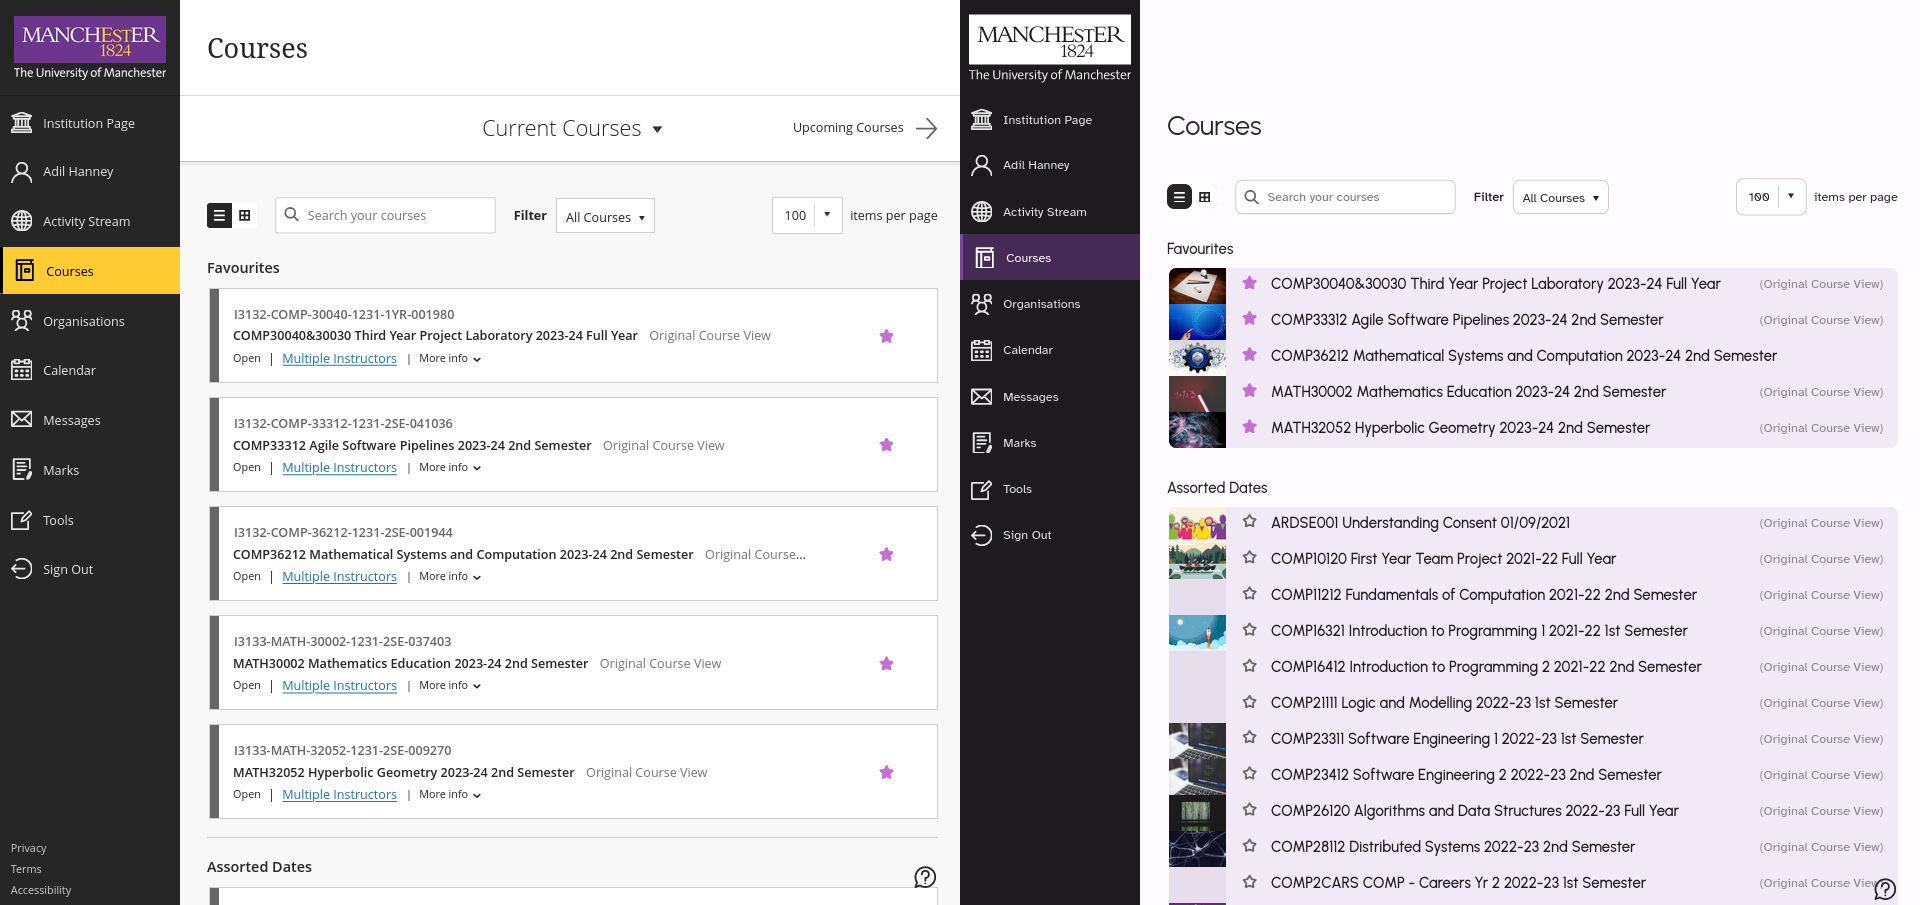
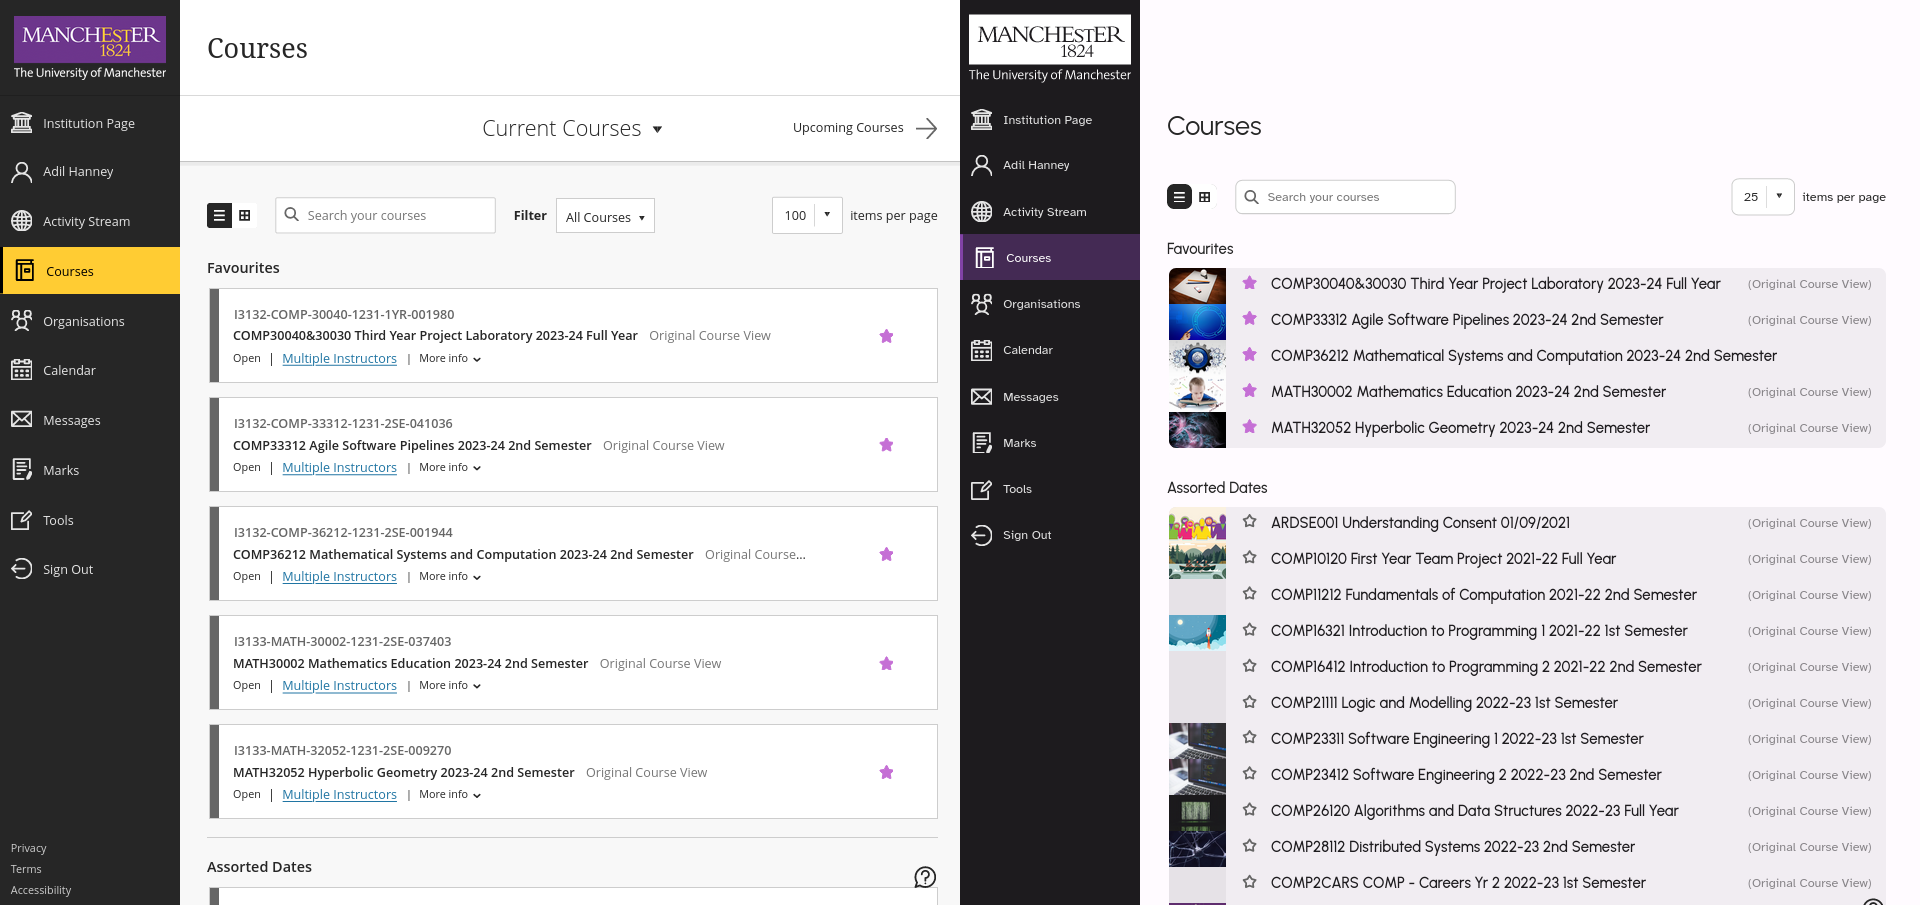
feat: desaturate most colors

diff --git a/src/styles/_globals.scss b/src/styles/_globals.scss
@@ -2,37 +2,30 @@
 @import "fonts/hyperlegible";
 @import "fonts/urbanist";
 
-/// How these colours were obtained:
-///
-/// 1. Generate with https://m3.material.io/theme-builder#/custom
+/// Colors generated with https://m3.material.io/theme-builder#/custom
 /// with the following settings:
 /// - Primary: #8142a6
 /// - Secondary: #000000
 /// - Tertiary: #000000
-///
-/// 2. Find and replace all `--md-sys-color-` with `$`.
-///    Find and replace all `-light:` with `:`.
-///
-/// 3. Copy relevant parts into this file.
 
 $primary: #8142a6;
 $on-primary: #fff;
-$primary-container: #f5d9ff;
-$on-primary-container: #30004a;
+$primary-container: color.scale(#f5d9ff, $saturation: -50%);
+$on-primary-container: color.scale(#30004a, $saturation: -50%);
 $primary-1: $primary;
 $primary-2: color.mix($primary-1, $primary-container, 5%);
 $primary-3: color.mix($primary-1, $primary-container, 10%);
 $primary-4: color.mix($primary-1, $primary-container, 15%);
 
-$secondary: #984061;
+$secondary: color.scale(#984061, $saturation: -50%);
 $on-secondary: #fff;
-$secondary-container: #ffd9e2;
-$on-secondary-container: #3e001d;
+$secondary-container: color.scale(#ffd9e2, $saturation: -50%);
+$on-secondary-container: color.scale(#3e001d, $saturation: -50%);
 
-$tertiary: #984061;
+$tertiary: color.scale(#984061, $saturation: -50%);
 $on-tertiary: #fff;
-$tertiary-container: #ffd9e2;
-$on-tertiary-container: #3e001d;
+$tertiary-container: color.scale(#ffd9e2, $saturation: -50%);
+$on-tertiary-container: color.scale(#3e001d, $saturation: -50%);
 
 $background: #fffbff;
 $on-background: #1d1b1e;
@@ -44,20 +37,20 @@ $on-error-container: #410002;
 $error-on-background: color.mix($on-background, $error, 75%);
 
 $on-surface: #1d1b1e;
-$surface-variant: #eadfea;
-$on-surface-variant: #4b444d;
-$surface-tint: $primary;
+$surface-variant: color.scale(#eadfea, $saturation: -50%);
+$on-surface-variant: color.scale(#4b444d, $saturation: -50%);
+$surface-tint: color.scale($primary, $saturation: -80%);
 $surface-0: $background;
 $surface-1: color.mix($surface-0, $surface-tint, 90%);
 $surface-2: color.mix($surface-0, $surface-tint, 85%);
 $surface-3: color.mix($surface-0, $surface-tint, 75%);
 
-$outline: #7d747e;
-$outline-variant: #cec3ce;
+$outline: color.scale(#7d747e, $saturation: -50%);
+$outline-variant: color.scale(#cec3ce, $saturation: -50%);
 
-$inverse-on-surface: #f6eff3;
-$inverse-surface: #332f33;
-$inverse-primary: #e6b4ff;
+$inverse-on-surface: color.scale(#f6eff3, $saturation: -50%);
+$inverse-surface: color.scale(#332f33, $saturation: -50%);
+$inverse-primary: color.scale(#e6b4ff, $saturation: -50%);
 
 $header: #1d1b1e; // $surface-dark
 $on-header: #e8e0e5; // $on-surface-dark
